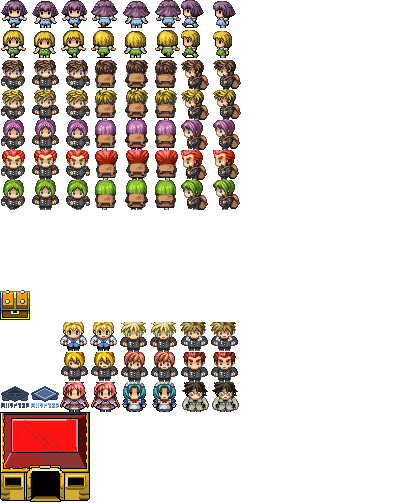
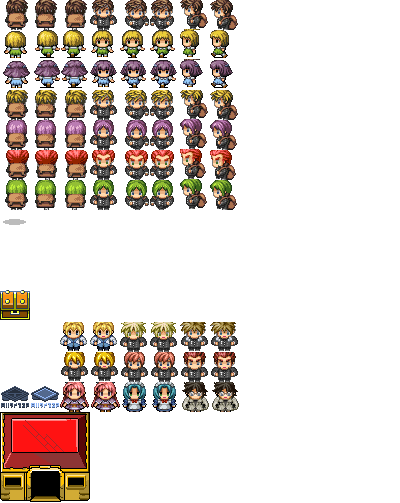
Changing names and sprites

Changed region(s): [[0.0, 0.0, 0.6, 0.4473]]

diff --git a/src/game.js b/src/game.js
@@ -85,7 +85,7 @@ function go() {
 		gbox.purgeGarbage(); // Since we're starting, we can purge all now
 
 		if (level==null)
-			level={level:"begin",x:300,y:270,introdialogue:false}; // First stage
+			level={level:"external",x:300,y:270,introdialogue:false}; // First stage
 
 		// Dialogues are emptied - will be loaded by bundles. Cache is not needed - each bundle
 		// Contains full dialogues for the floor.
@@ -97,7 +97,7 @@ function go() {
 
 		// Here the map is loaded. During the load time, the game is still.
 		gbox.addBundle({
-			file:"resources/bundle-map-"+level.level+".js",
+			file:"resources/bundle-"+level.level+".js",
 			onLoad:function(){ // This "onload" operation is triggered after everything is loaded.
 				help.finalizeTilemap(tilemaps.map); // Finalize the map into the bundle
 				gbox.createCanvas("tileslayer",{w:tilemaps.map.w,h:tilemaps.map.h}); // Prepare map's canvas

diff --git a/resources/bundle.js b/resources/bundle.js
@@ -17,7 +17,7 @@
 		{id:"lefthit",image:"sprites",tileh:40,tilew:20,tilerow:4,gapx:0,gapy:30},
 		{id:"uphit",image:"sprites",tileh:20,tilew:40,tilerow:4,gapx:0,gapy:70},
 		{id:"foe1",image:"sprites",tileh:30,tilew:30,tilerow:12,gapx:0,gapy:90},
-		{id:"shadows",image:"sprites",tileh:15,tilew:30,tilerow:12,gapx:0,gapy:120},
+		{id:"shadows",image:"sprites",tileh:15,tilew:30,tilerow:12,gapx:0,gapy:210},
 		{id:"bonus",image:"sprites",tileh:20,tilew:20,tilerow:12,gapx:0,gapy:135},
 		{id:"hud",image:"sprites",tileh:20,tilew:20,tilerow:9,gapx:240,gapy:135},
 

diff --git a/resources/bundle-external.js b/resources/bundle-external.js
@@ -62,7 +62,7 @@
 				 mapActions:function() {
 					var pl=gbox.getObject("player","player");
 					var ontile=help.getTileInMap(pl.x+pl.colx+pl.colhw,pl.y+pl.coly+pl.colhh,tilemaps.map,tilemaps._defaultblock,"map");
-					if (ontile==1) maingame.gotoLevel({level:"floor1",x:350,y:590,label:"Sala de aula"});
+					if (ontile==1) maingame.gotoLevel({level:"room1",x:350,y:590,label:"Sala de aula"});
 				 },
 				tileIsSolid:function(obj,t){ return (t>9) }
 			}

diff --git a/jep.html b/jep.html
@@ -10,7 +10,7 @@
 
 	<script type="text/javascript" src="src/player.js"></script>
 	<script type="text/javascript" src="src/npc.js"></script>
-	<script type="text/javascript" src="src/jep.js"></script>
+	<script type="text/javascript" src="src/game.js"></script>
 	<style>BODY { -webkit-user-select:none; margin:0px}</style>
 	<meta name="viewport" content="width=device-width; initial-scale=1.0; maximum-scale=1.0; user-scalable=0;" />
 </head>
